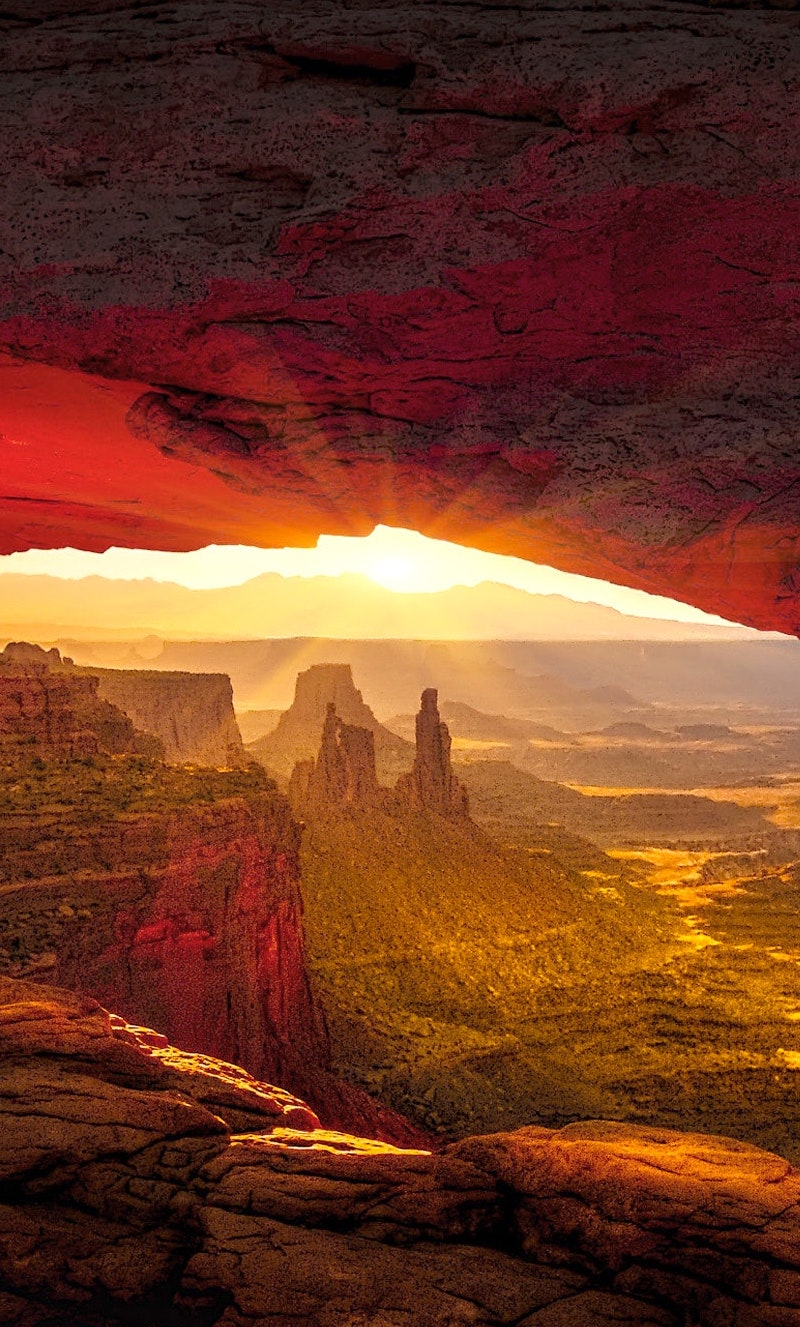
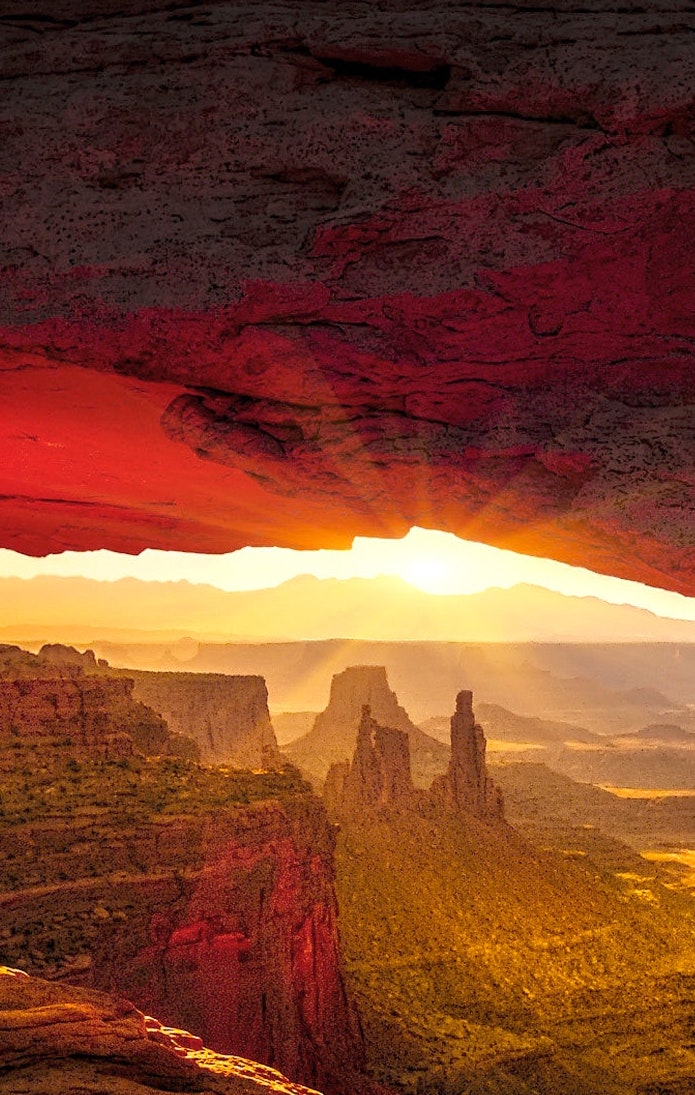
Final design changes

diff --git a/src/app/tab1/tab1.page.scss b/src/app/tab1/tab1.page.scss
@@ -1,38 +1,49 @@
-h1 {
- color: white;  
+* {
+  margin: 0;
+  padding: 0;
 }
 
-/*ion-slides {
-  height: 100%;
+/*ion-slides{
+  min-height: 300px;
+  max-width: 250px;
+
 }*/
 
 .image1 {
   background: url("/assets/arches-national-park-dark-dusk-33688.jpg");
   background-size: cover;
-  margin:0;
-  padding:0;
-  height: 500px;
-  width: 300px;
+  min-height: 500px;
+  max-width: 300px;
 }
 
 .image2 {
-  background: url("/assets/arches-national-park-dark-dusk-33688.jpg");
+  background: url("/assets/4k-wallpaper-conifers-desktop-wallpaper-1367192.jpg");
   background-size: cover;
-  margin:0;
-  padding:0;
-  height: 500px;
-  width: 300px;
+  min-height: 500px;
+  max-width: 300px;
 }
 
 .image3 {
-  background: url("/assets/arches-national-park-dark-dusk-33688.jpg");
+  background: url("/assets/arches-national-park-arizona-canyon-1672813.jpg");
   background-size: cover;
-  margin:0;
-  padding:0;
-  height: 500px;
-  width: 300px;
+  min-height: 500px;
+  max-width: 300px;
 }
 
 h1 {
-  margin: 5em 1em;
+  color: white;
+  margin: 2em 1em 0.5em 1em;
+  padding:0;
+  font-family: 'Permanent Marker', cursive;
+  font-size: 32px;
+  line-height: 28px;
+
+}
+
+h3 {
+  color: white;
+  margin: 0 1em;
+  padding:0;
+  font-size: 14px;
+
 }

diff --git a/src/app/tab1/tab1.page.html b/src/app/tab1/tab1.page.html
@@ -1,11 +1,15 @@
+<link href="https://fonts.googleapis.com/css?family=Permanent+Marker" rel="stylesheet">
 <ion-slides pager="true" autoplay="2000" [options]="slideOpts" >
   <ion-slide>
-    <div class="image1"><h1>The mountains are calling and I must go</h1></div>
+    <div class="image1"><h1>The mountains are calling and I must go</h1>
+      <h3>One of America's National Parks is waiting for your next adventure</h3></div>
   </ion-slide>
   <ion-slide>
-      <div class="image2"><h1>The mountains are calling and I must go</h1></div>
+      <div class="image2"><h1>The mountains are calling and I must go</h1>
+        <h3>One of America's National Parks is waiting for your next adventure</h3></div>
   </ion-slide>
   <ion-slide>
-      <div class="image3"><h1>The mountains are calling and I must go</h1></div>
+      <div class="image3"><h1>The mountains are calling and I must go</h1>
+        <h3>One of America's National Parks is waiting for your next adventure</h3></div>
   </ion-slide>
 </ion-slides>
